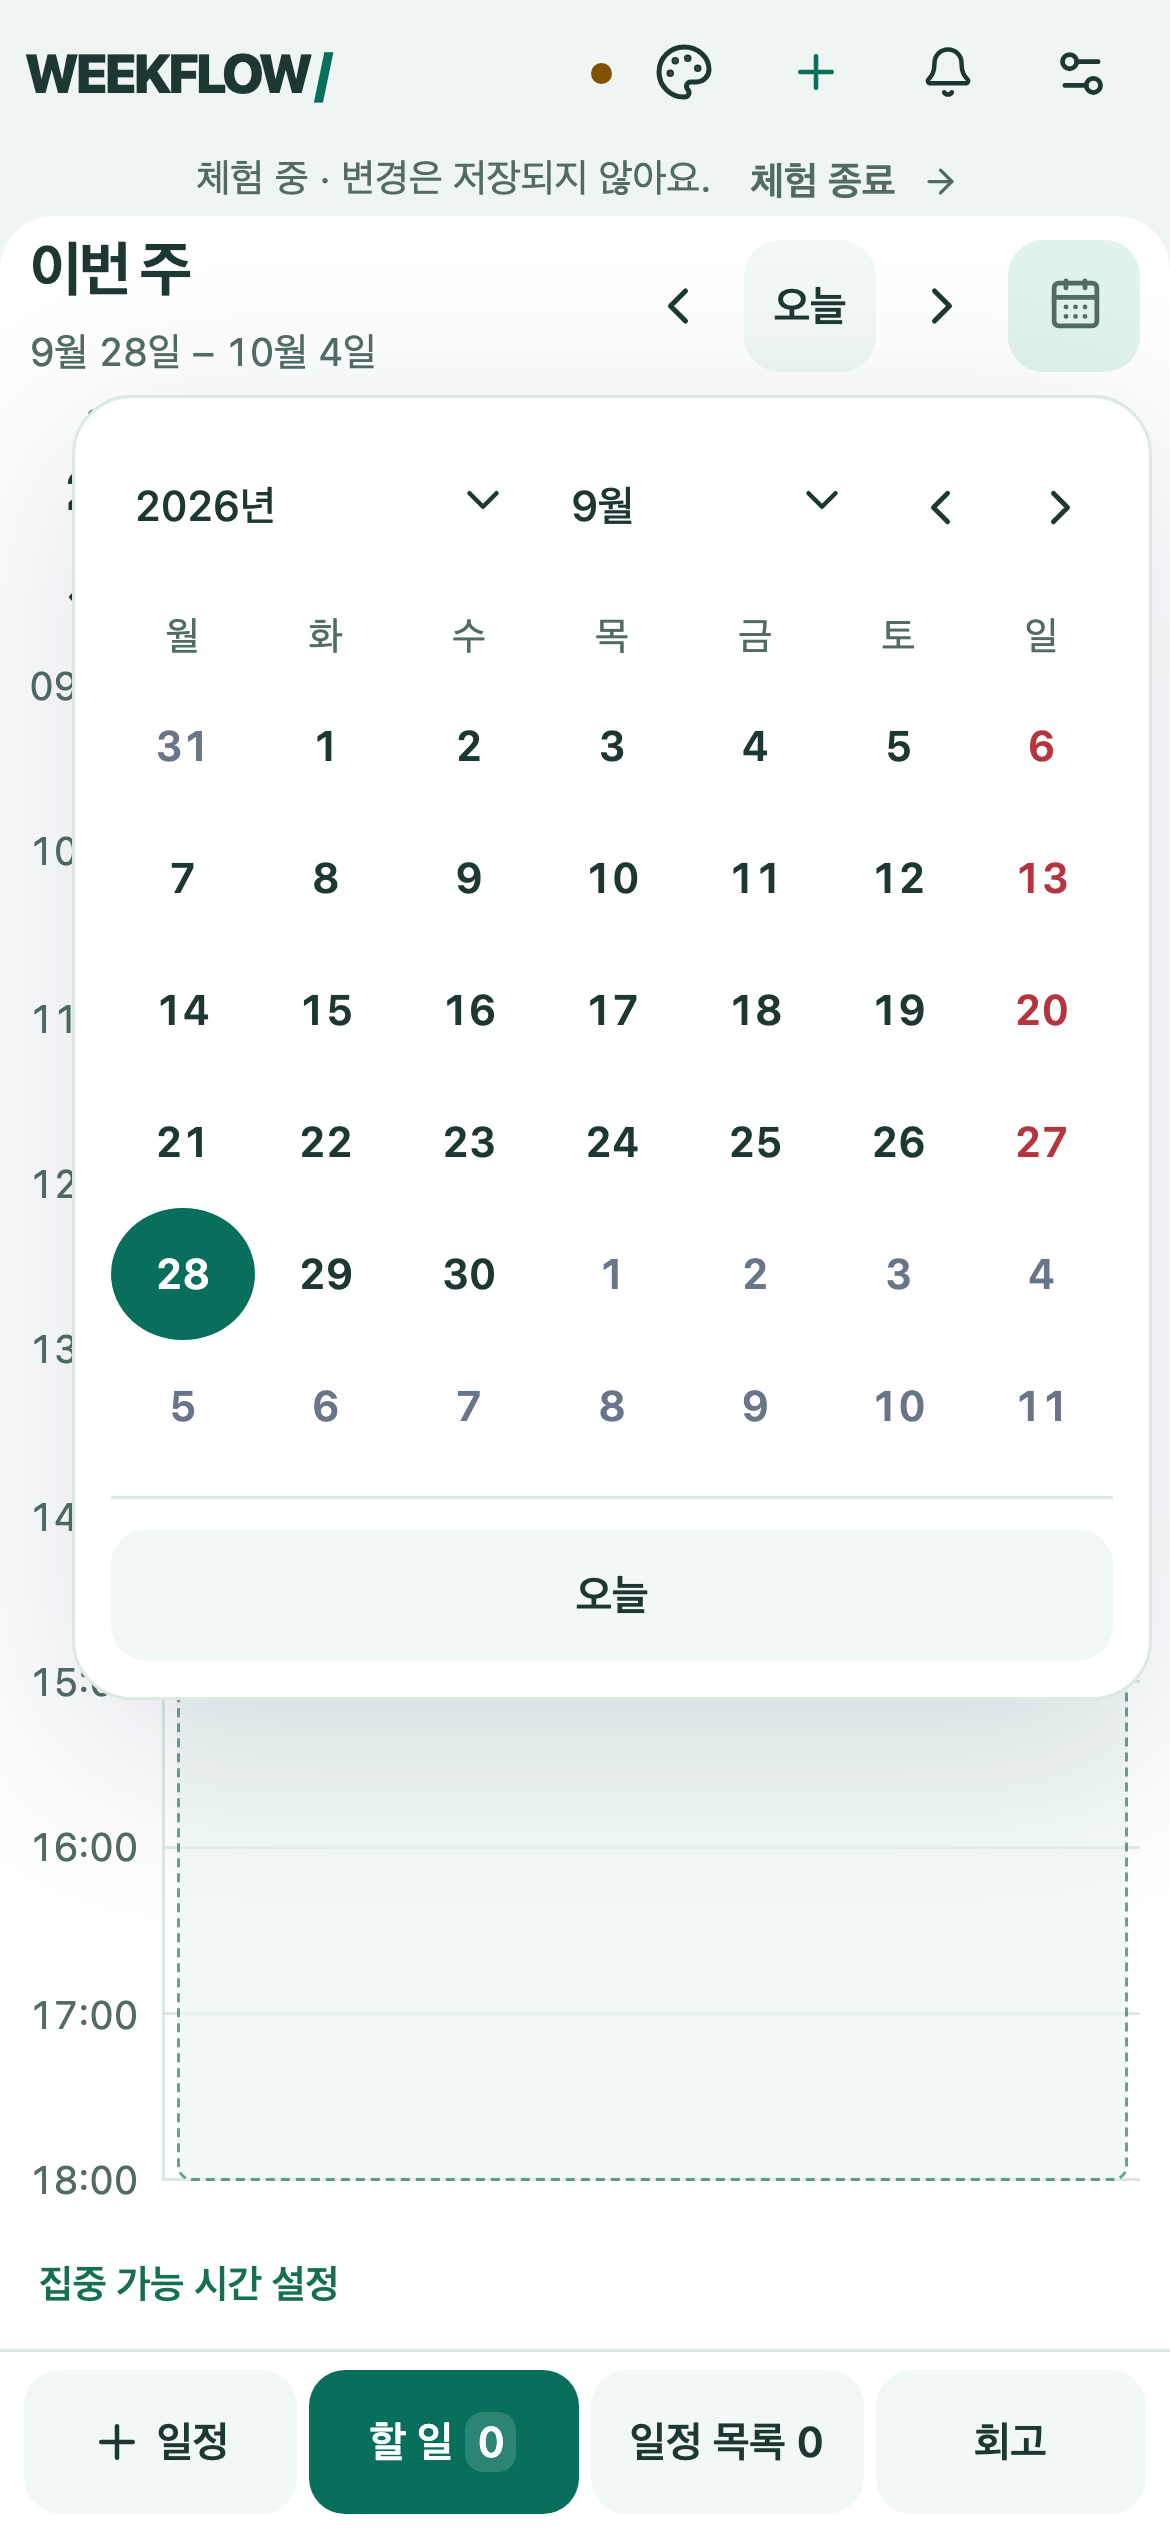
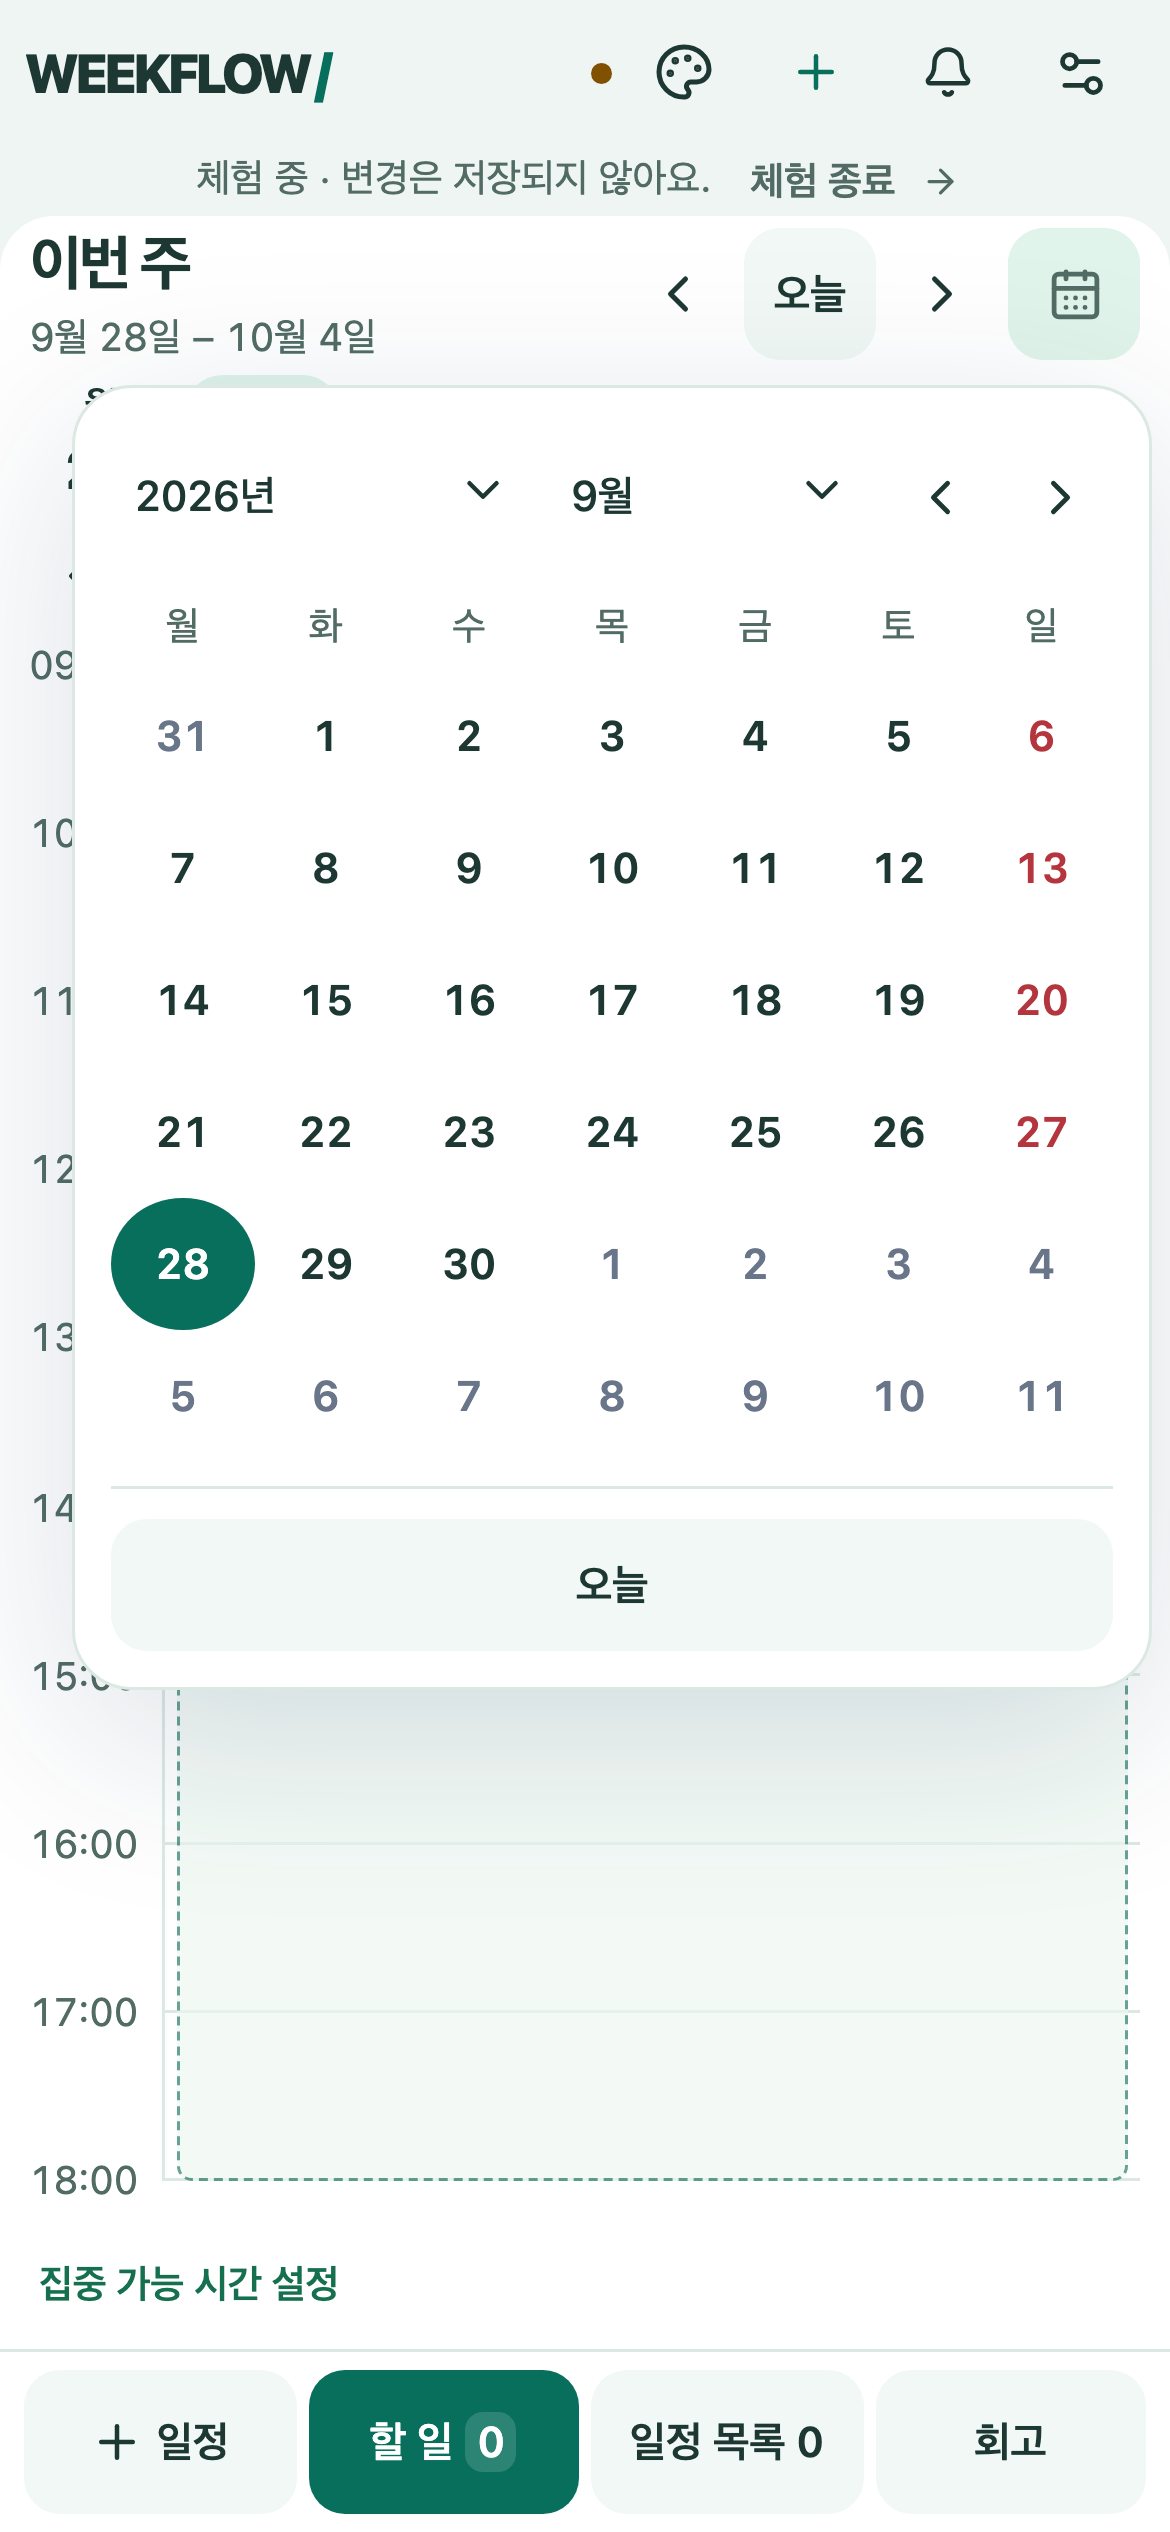
fix: reserve mobile timeline space across platform font metrics

diff --git a/src/styles.css b/src/styles.css
@@ -3340,3 +3340,12 @@ input[type="radio"]:disabled {
   background: var(--selected);
   border-color: var(--accent);
 }
+@media (max-width: 767px) {
+  /* Leave room for platform font metrics while keeping the day canvas >=450px. */
+  .planner-heading {
+    padding-block: 2px;
+  }
+  .week-caption > span {
+    margin-top: 2px;
+  }
+}

diff --git a/docs/TEST_REPORT.md b/docs/TEST_REPORT.md
@@ -120,10 +120,12 @@
 - Push 권한 제스처 순서, 기존 구독의 재등록 실패 보존, 현재 endpoint 테스트, 로컬/서버 구독 차이, iPhone 설치 안내, 표시 요청 접수와 알림 목록 수신 구분, SW receipt, 구독 해제/조회 실패 시 상태 갱신 검사. 실제 서버 Cron 최근5회HTTP200, 실제 계정 알림 사용/10분 전·구독 활성 확인. 미래 일정/마감이 없어 현재 자동 일정 발송 대상은0건이었다.
 - 실제 Mac Chrome permission=granted와 로컬/서버 기기 등록 일치를 확인했다. 로컬 showNotification은 요청을 접수했으나 getNotifications 목록에는 없었다. 현재 기기만 지정한 원격 발송은HTTP200/accepted1, 다른 기기 endpoint는400/NO_SUBSCRIPTION, 비인증 요청401을 확인했다. 이 사실만으로 OS 배너 수신을 성공으로 간주하지 않는다.
 - check:edge3개 함수 통과. push-subscription 함수만 기존 프로젝트에 배포했다. DB/Edge dispatch/Cron/키/RLS/사용자 알림 선호는 바꾸지 않았다. 서버는10대 제한에서도 동일 기기 재등록을 허용한다.
-- production build와 check:secrets 통과(221개 소스). 초기JS616.95kB/gzip184.92kB, Planner266.11kB/gzip80.74kB, CSS48.98kB/gzip10.42kB. 기존 청크 크기/초기 외관 public script 경고는 남는다.
-- 최종 local production 검수: `node scripts/verify-ui.mjs http://127.0.0.1:4174/weekflow/ planning-tools-production` PC/모바일 루트 넘침 없음, 본문16px/일정14px, SW·외관 사전 캐시·다크 유지·오프라인 재실행 통과. 캐시 `weekflow-shell-/weekflow/cb4d1848cfe3`.
+- production build와 check:secrets 통과(225개 소스). 초기JS616.95kB/gzip184.92kB, Planner266.11kB/gzip80.74kB, CSS49.07kB/gzip10.43kB. 기존 청크 크기/초기 외관 public script 경고는 남는다.
+- 최종 local production 검수: `node scripts/verify-ui.mjs http://127.0.0.1:4174/weekflow/ planning-tools-production` PC/모바일 루트 넘침 없음, 본문16px/일정14px, SW·외관 사전 캐시·다크 유지·오프라인 재실행 통과. 캐시 `weekflow-shell-/weekflow/6f464d61e386`.
 - 주요 캡처를 직접 열어 검수했다: `mobile-compact-editor.png`, `mobile-calendar-copy.png`, `desktop-hover-create.png`, `tools-<desktop|mobile>-suggestions.png`, `planning-tools-production-*.png`와 갱신된viewport/테마 캡처.
 
 기존 실제 기기 미검증 범위(macOS 배너/클릭, 물리 모바일 Push/PWA/키보드/달력 추가, Safari/VoiceOver)는 유지한다. 실제 사용자 일정/할 일 데이터는 검수 목적으로 작성·삭제하지 않았다. 원격 Push 테스트는 테스트 알림 감사 기록을 만든다.
 
 - Edge 변경 후 `npm run test:db`의 실제 API/소유권/버전/백업/비인증 함수 경계19개 통과. 스크립트를 먼저 읽고 격리된 임시 계정2개로만 검사했으며, 두 계정 삭제HTTP200과 이메일 제공자 비활성 복구를 확인했다. 실제 사용자 데이터는 변경하지 않았다.
+
+- 첫 CI의 모바일 시간표가450px 기준보다 약1px 부족해 실패했다. 상단 간격을 추가로 줄였으며 기준을 낮추지 않았다. 전체48개 브라우저 검사와 final production/offline 검수를 다시 통과했다.
